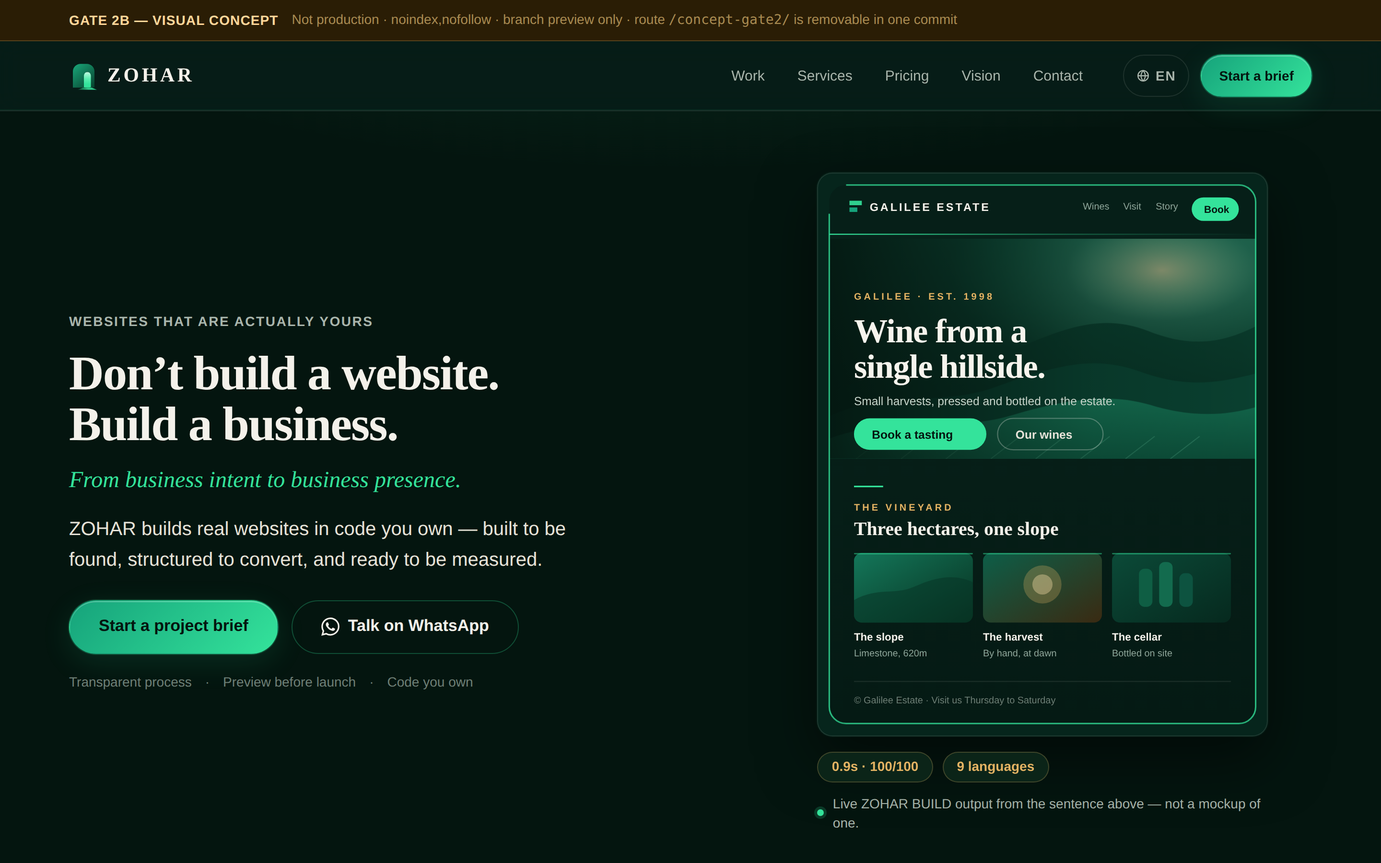
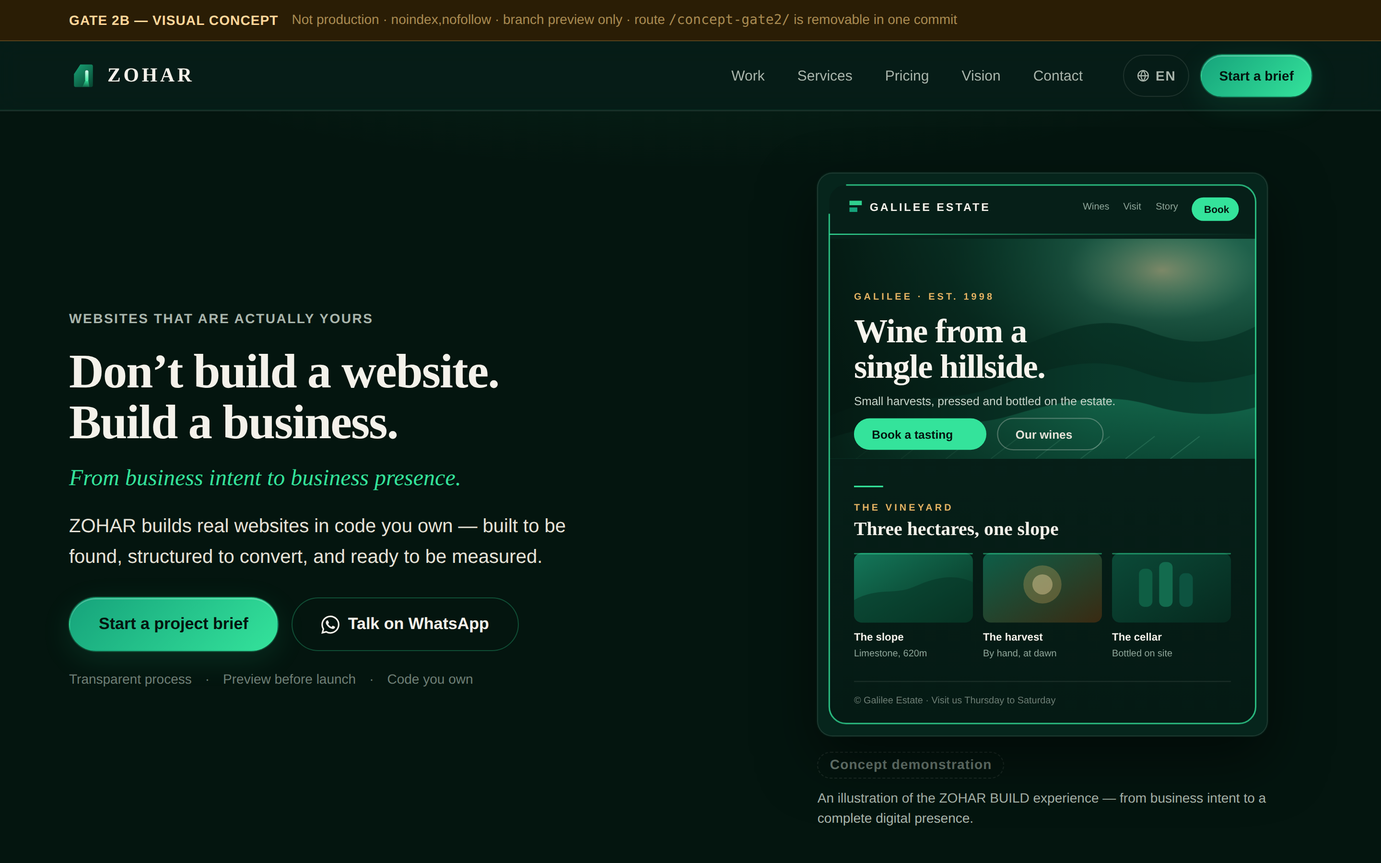
feat(brand): Gate 2C final — Threshold locked, refined to production master; unsupported claims removed
Threshold is selected as the controlling ZOHAR mark. The Cut and The Trace are
retired. No production route is touched: all 12 baseline files under public/
remain byte-identical to e2bad8b. No merge, no production deployment.

1. THRESHOLD — refined into the production master.
Preserved: the off-centre opening, light emerging from within, the crossing from
intent to presence, 16px recognition, and dark/light/mono operation.
Corrected:
  - the symmetric rounded arch is replaced by a chamfered monolith — one steep,
    non-45° chamfer on the leading top corner, 1.5-unit radii elsewhere. The
    tombstone, doorway and arch readings are gone, and the steep angle also
    stops it reading as a folded page corner.
  - the opening is now a capsule incision floating inside the mass that never
    reaches the base. A slot that does not touch the ground cannot be a door.
  - the pooled spill becomes one clean tapered shaft, dropped entirely below
    20px where a dedicated favicon construction widens the incision instead.
  - monochrome is mass plus knockout only: no beam, no gradient, no opacity.
    The chamfer and the off-centre slot carry the identity on silhouette alone.

Production assets committed under public/concept-gate2/brand/, each a real
self-contained SVG: symbol, light-ground symbol, monochrome, favicon and
favicon-mono, horizontal lockup, light lockup, monochrome lockup, ZOHAR AI
secondary lockup, outlined wordmark, 512 app icon and a 1200x630 social card.
[…]

diff --git a/public/concept-gate2/brand/index.html b/public/concept-gate2/brand/index.html
@@ -1,0 +1,118 @@
+<!DOCTYPE html>
+<html lang="en" dir="ltr">
+<head>
+<meta charset="UTF-8">
+<meta name="viewport" content="width=device-width,initial-scale=1,viewport-fit=cover">
+<meta name="robots" content="noindex,nofollow,noarchive,nosnippet">
+<title>ZOHAR — Threshold master mark (Gate 2C final)</title>
+<link rel="icon" href="zohar-favicon.svg" type="image/svg+xml">
+<link rel="preconnect" href="https://fonts.googleapis.com"><link rel="preconnect" href="https://fonts.gstatic.com" crossorigin>
+<link href="https://fonts.googleapis.com/css2?family=Fraunces:ital,opsz,wght@0,9..144,400;0,9..144,600;1,9..144,400&family=Assistant:wght@400;600;700&display=swap" rel="stylesheet">
+<link rel="stylesheet" href="../concept.css">
+<style>
+ .asset{background:linear-gradient(180deg,#08241C,#061E17);border:1px solid var(--z-border);
+   border-radius:14px;padding:22px;display:grid;gap:14px;box-shadow:inset 0 1px 0 rgba(155,250,210,.055)}
+ .stage{border-radius:10px;display:grid;place-items:center;padding:22px;min-height:132px}
+ .on-dark{background:var(--z-canvas);border:1px solid var(--z-border)}
+ .on-light{background:#F4F1EA}
+ .on-mono{background:#0F3A2E;color:#F4F1EA}
+ .fname{font-family:var(--font-mono);font-size:.875rem;color:var(--z-action-400);overflow-wrap:anywhere}
+ .fmeta{font-size:.875rem;color:var(--z-text-mute)}
+ .truesize{display:flex;gap:26px;align-items:flex-end;flex-wrap:wrap}
+ .ts{display:grid;gap:8px;justify-items:center}
+ .ts b{font-size:.875rem;color:var(--z-text-faint);font-weight:600}
+ .px{background:var(--z-canvas);border-radius:3px;display:grid;place-items:center;overflow:hidden}
+ .px.lt{background:#F4F1EA}
+ .zoom{image-rendering:pixelated;border:1px solid var(--z-border);border-radius:6px}
+ .grid-a{display:grid;grid-template-columns:repeat(auto-fill,minmax(290px,1fr));gap:20px}
+</style>
+</head>
+<body>
+<div class="concept-bar"><b>GATE 2C — THRESHOLD MASTER MARK</b><span>Selected direction, refined · production asset set · not production routes</span></div>
+
+<svg width="0" height="0" style="position:absolute" aria-hidden="true"><defs>
+ <mask id="bk"><path d="M9.4 2.6H18.4A1.5 1.5 0 0 1 19.9 4.1V19.9A1.5 1.5 0 0 1 18.4 21.4H5.6A1.5 1.5 0 0 1 4.1 19.9V10.6Z" fill="#fff"/><rect x="13.4" y="7.4" width="2.8" height="9.2" rx="1.4" fill="#000"/></mask>
+ <mask id="bkf"><path d="M9.4 2.6H18.4A1.5 1.5 0 0 1 19.9 4.1V19.9A1.5 1.5 0 0 1 18.4 21.4H5.6A1.5 1.5 0 0 1 4.1 19.9V10.6Z" fill="#fff"/><rect x="13.2" y="6.9" width="3.2" height="10.2" rx="1.6" fill="#000"/></mask>
+</defs>
+<symbol id="s-mono" viewBox="0 0 24 24"><g mask="url(#bk)"><rect width="24" height="24" fill="currentColor"/></g></symbol>
+<symbol id="s-mono-fav" viewBox="0 0 24 24"><g mask="url(#bkf)"><rect width="24" height="24" fill="currentColor"/></g></symbol>
+</svg>
+<main class="appendix" style="border:none">
+  <div class="wide appx-head">
+    <div class="label brass">Final lock</div>
+    <h1 class="d2">Threshold — production master</h1>
+    <p class="lead" style="margin-block-start:16px">The selected construction, refined. The off-centre opening, the light from within and the crossing from intent to presence are preserved. The arch is gone.</p>
+  </div>
+
+  <section class="sec" style="border:none;padding-block-start:14px">
+    <div class="wide">
+      <div class="sec-head" style="max-width:720px"><h2 class="d2" style="font-size:clamp(1.4rem,2.4vw,1.9rem)">What changed</h2></div>
+      <div class="grid-3">
+        <div class="spec"><h4>Outer mass</h4><p>The symmetric rounded arch is replaced by a chamfered monolith: one steep, non-45&deg; chamfer on the leading top corner, 1.5-unit radii elsewhere. It reads as machined, not as a doorway or a headstone — and the steep angle stops it reading as a folded page corner.</p></div>
+        <div class="spec"><h4>The opening</h4><p>Now a capsule incision that floats inside the mass and does not reach the base. A slot that never touches the ground cannot be a door. It is narrower and fully radiused at both ends — a controlled cut, not an entrance.</p></div>
+        <div class="spec"><h4>The light</h4><p>One clean tapered shaft from the lower end of the incision to the base, replacing the soft pooled spill. It is dropped entirely below 20px, where the favicon variant uses a slightly larger incision instead.</p></div>
+        <div class="spec"><h4>Monochrome</h4><p>Mass plus knockout only — no beam, no gradient, no opacity tricks. The chamfer and the off-centre slot carry the identity on silhouette alone.</p></div>
+        <div class="spec"><h4>Small sizes</h4><p>A dedicated favicon construction widens the incision from 2.8 to 3.2 units and lengthens it, so the light still reads at 16px where the production slot would close up.</p></div>
+        <div class="spec"><h4>Wordmark</h4><p>ZOHAR is shipped as outlined vector paths drawn from Fraunces at optical size 96, weight 600. No font needs to be installed, and nothing falls back.</p></div>
+      </div>
+    </div>
+  </section>
+
+  <section class="sec">
+    <div class="wide">
+      <div class="sec-head" style="max-width:720px"><h2 class="d2" style="font-size:clamp(1.4rem,2.4vw,1.9rem)">True-size favicon tests</h2>
+        <p class="lead">Rendered at exactly 16&times;16 and 32&times;32, with a 6&times; pixel-doubled enlargement beside each so the actual rasterisation can be judged.</p></div>
+      <div class="asset">
+        <div class="truesize">
+          <div class="ts"><div class="px" style="width:16px;height:16px"><img src="zohar-favicon.svg" width="16" height="16" alt=""></div><b>16 true</b></div>
+          <div class="ts"><img class="zoom" src="zohar-favicon.svg" width="96" height="96" alt=""><b>16 &rarr; 6&times;</b></div>
+          <div class="ts"><div class="px" style="width:32px;height:32px"><img src="zohar-favicon.svg" width="32" height="32" alt=""></div><b>32 true</b></div>
+          <div class="ts"><img class="zoom" src="zohar-favicon.svg" width="192" height="192" alt=""><b>32 &rarr; 6&times;</b></div>
+          <div class="ts"><div class="px lt" style="width:16px;height:16px;color:#04150F"><svg width="16" height="16"><use href="#s-mono-fav"/></svg></div><b>16 mono light</b></div>
+          <div class="ts"><div class="px" style="width:16px;height:16px;color:#F4F1EA"><svg width="16" height="16"><use href="#s-mono-fav"/></svg></div><b>16 mono dark</b></div>
+        </div>
+        <div class="fname">zohar-favicon.svg &middot; zohar-favicon-mono.svg</div>
+      </div>
+    </div>
+  </section>
+
+  <section class="sec">
+    <div class="wide">
+      <div class="sec-head" style="max-width:720px"><h2 class="d2" style="font-size:clamp(1.4rem,2.4vw,1.9rem)">Production asset set</h2>
+        <p class="lead">Every file below is a real, self-contained SVG committed to the branch. Click a filename to open it.</p></div>
+      <div class="grid-a">
+        <div class="asset"><div class="stage on-dark"><img src="zohar-symbol.svg" width="104" height="104" alt="ZOHAR symbol"></div>
+          <a class="fname" href="zohar-symbol.svg">zohar-symbol.svg</a><div class="fmeta">Master symbol, dark backgrounds</div></div>
+        <div class="asset"><div class="stage on-light"><img src="zohar-symbol-light.svg" width="104" height="104" alt="ZOHAR symbol, light"></div>
+          <a class="fname" href="zohar-symbol-light.svg">zohar-symbol-light.svg</a><div class="fmeta">Deeper mass for warm-white grounds</div></div>
+        <div class="asset"><div class="stage on-mono"><svg width="104" height="104" style="color:#F4F1EA"><use href="#s-mono"/></svg></div>
+          <a class="fname" href="zohar-symbol-mono.svg">zohar-symbol-mono.svg</a><div class="fmeta">currentColor, no gradient, no beam. Embed it inline or with <code>&lt;use&gt;</code> &mdash; an <code>&lt;img&gt;</code> cannot inherit currentColor.</div></div>
+        <div class="asset"><div class="stage on-dark"><img src="zohar-lockup-horizontal.svg" height="54" alt="ZOHAR horizontal lockup"></div>
+          <a class="fname" href="zohar-lockup-horizontal.svg">zohar-lockup-horizontal.svg</a><div class="fmeta">Primary lockup &middot; outlined wordmark</div></div>
+        <div class="asset"><div class="stage on-light"><img src="zohar-lockup-light.svg" height="54" alt="ZOHAR lockup, light"></div>
+          <a class="fname" href="zohar-lockup-light.svg">zohar-lockup-light.svg</a><div class="fmeta">Light-background lockup</div></div>
+        <div class="asset"><div class="stage on-mono"><img src="zohar-lockup-horizontal-mono.svg" height="54" alt="ZOHAR lockup, monochrome" style="filter:invert(1) brightness(2.2)"></div>
+          <a class="fname" href="zohar-lockup-horizontal-mono.svg">zohar-lockup-horizontal-mono.svg</a><div class="fmeta">Single-colour lockup</div></div>
+        <div class="asset"><div class="stage on-dark"><img src="zohar-ai-lockup.svg" height="62" alt="ZOHAR AI lockup"></div>
+          <a class="fname" href="zohar-ai-lockup.svg">zohar-ai-lockup.svg</a><div class="fmeta">Secondary &mdash; company &amp; schema name</div></div>
+        <div class="asset"><div class="stage on-dark"><img src="zohar-wordmark-outlined.svg" height="42" alt="ZOHAR wordmark"></div>
+          <a class="fname" href="zohar-wordmark-outlined.svg">zohar-wordmark-outlined.svg</a><div class="fmeta">Paths only &mdash; no installed font required</div></div>
+        <div class="asset"><div class="stage on-dark"><img src="zohar-appicon-512.svg" width="104" height="104" alt="ZOHAR app icon"></div>
+          <a class="fname" href="zohar-appicon-512.svg">zohar-appicon-512.svg</a><div class="fmeta">App icon, 512 with platform corner radius</div></div>
+        <div class="asset"><div class="stage on-dark" style="padding:14px"><img src="zohar-social-1200x630.svg" style="width:100%;height:auto;border-radius:6px" alt="ZOHAR social card"></div>
+          <a class="fname" href="zohar-social-1200x630.svg">zohar-social-1200x630.svg</a><div class="fmeta">Social / OG card</div></div>
+        <div class="asset"><div class="stage on-dark"><img src="zohar-symbol.svg" width="88" height="88" alt="ZOHAR static state"></div>
+          <a class="fname" href="zohar-symbol.svg">Reduced-motion / static state</a><div class="fmeta">The master symbol is already the resting state &mdash; motion only ever animates into it</div></div>
+        <div class="asset"><div class="stage on-dark"><img src="zohar-favicon.svg" width="88" height="88" alt="ZOHAR favicon"></div>
+          <a class="fname" href="zohar-favicon.svg">zohar-favicon.svg</a><div class="fmeta">Wider incision for small sizes</div></div>
+      </div>
+    </div>
+  </section>
+
+  <div class="wide" style="padding-block:0 70px">
+    <div class="note"><b>Motion principle.</b> The mass is present from the first frame. The incision brightens from its top end downward (340ms), then the shaft reaches the base (220ms). 560ms, once per session. Under <code>prefers-reduced-motion</code> nothing runs and the resting state above is what renders &mdash; it is the same file.
+    <br><br><b>Naming.</b> ZOHAR is the visible brand on the mark and in the lockup. ZOHAR AI is the company and schema name, carried by the secondary lockup only.
+    <br><br><a class="btn btn-ghost btn-sm" href="../">&larr; Back to the homepage concept</a></div>
+  </div>
+</main>
+</body></html>

diff --git a/public/concept-gate2/index.html b/public/concept-gate2/index.html
@@ -10,6 +10,7 @@
 <link rel="preconnect" href="https://fonts.googleapis.com">
 <link rel="preconnect" href="https://fonts.gstatic.com" crossorigin>
 <link href="https://fonts.googleapis.com/css2?family=Fraunces:ital,opsz,wght@0,9..144,400;0,9..144,600;1,9..144,400&family=Assistant:wght@400;600;700&family=Frank+Ruhl+Libre:wght@500;700&display=swap" rel="stylesheet">
+<link rel="icon" href="brand/zohar-favicon.svg" type="image/svg+xml">
 <link rel="stylesheet" href="concept.css">
 </head>
 <body>
@@ -21,7 +22,7 @@
     <linearGradient id="zMassB" x1="3" y1="2" x2="21" y2="22" gradientUnits="userSpaceOnUse"><stop offset="0" stop-color="#1AA97B"/><stop offset="1" stop-color="#073F2C"/></linearGradient>
     <linearGradient id="zSeam" x1="1" y1="17" x2="23" y2="7" gradientUnits="userSpaceOnUse"><stop offset="0" stop-color="#34E39B"/><stop offset=".5" stop-color="#EAFFF6"/><stop offset="1" stop-color="#34E39B"/></linearGradient>
     <linearGradient id="zSlit" x1="13" y1="6.5" x2="13" y2="19" gradientUnits="userSpaceOnUse"><stop offset="0" stop-color="#EAFFF6"/><stop offset=".65" stop-color="#5BEDB0"/><stop offset="1" stop-color="#34E39B"/></linearGradient>
-    <linearGradient id="zSpill" x1="14" y1="19" x2="5" y2="23.5" gradientUnits="userSpaceOnUse"><stop offset="0" stop-color="#34E39B" stop-opacity=".85"/><stop offset="1" stop-color="#34E39B" stop-opacity="0"/></linearGradient>
+    <linearGradient id="zSpill" x1="14.8" y1="16.1" x2="14" y2="21.4" gradientUnits="userSpaceOnUse"><stop offset="0" stop-color="#34E39B" stop-opacity=".9"/><stop offset="1" stop-color="#34E39B" stop-opacity=".12"/></linearGradient>
     <linearGradient id="zTrace" x1="4" y1="20" x2="20" y2="4" gradientUnits="userSpaceOnUse"><stop offset="0" stop-color="#0E6E51"/><stop offset=".45" stop-color="#1FB584"/><stop offset="1" stop-color="#9BFAD2"/></linearGradient>
     <linearGradient id="gLum" x1="0" y1="0" x2="0" y2="1"><stop offset="0" stop-color="#34E39B" stop-opacity="0"/><stop offset=".5" stop-color="#34E39B" stop-opacity=".5"/><stop offset="1" stop-color="#34E39B" stop-opacity="0"/></linearGradient>
     <clipPath id="zUp"><polygon points="-6,-6 30,-6 30,3.64 -6,17.14"/></clipPath>
@@ -45,17 +46,17 @@
     <g clip-path="url(#zLo)"><rect x="3" y="3" width="18" height="18" rx="3.8" fill="currentColor" transform="translate(1.03 -0.39)"/></g>
   </symbol>
 
-  <!-- DIRECTION 2 — THRESHOLD -->
+  <!-- MASTER MARK — THRESHOLD (Gate 2C final: chamfered monolith + capsule incision) -->
+  <mask id="zThrK"><path d="M9.4 2.6H18.4A1.5 1.5 0 0 1 19.9 4.1V19.9A1.5 1.5 0 0 1 18.4 21.4H5.6A1.5 1.5 0 0 1 4.1 19.9V10.6Z" fill="#fff"/><rect x="13.4" y="7.4" width="2.8" height="9.2" rx="1.4" fill="#000"/></mask>
+  <clipPath id="zThrC"><path d="M9.4 2.6H18.4A1.5 1.5 0 0 1 19.9 4.1V19.9A1.5 1.5 0 0 1 18.4 21.4H5.6A1.5 1.5 0 0 1 4.1 19.9V10.6Z"/></clipPath>
   <symbol id="mk-thr" viewBox="0 0 24 24">
-    <path d="M12.4 21.6H18.2L23.2 23.7H7.2Z" fill="url(#zSpill)"/>
-    <g mask="url(#zThr)"><rect width="24" height="24" fill="url(#zMassB)"/></g>
-    <path d="M12.4 12.2C12.4 10.3 13.7 8.9 15.3 8.9C16.9 8.9 18.2 10.3 18.2 12.2V21.6H12.4Z" fill="url(#zSlit)"/>
+    <g mask="url(#zThrK)"><rect width="24" height="24" fill="url(#zMassB)"/></g>
+    <g clip-path="url(#zThrC)"><path d="M13.5 16.1H16.1L16.9 21.4H11.1Z" fill="url(#zSpill)"/></g>
+    <rect x="13.4" y="7.4" width="2.8" height="9.2" rx="1.4" fill="url(#zSlit)"/>
   </symbol>
   <symbol id="mk-thr-mono" viewBox="0 0 24 24">
-    <g mask="url(#zThr)"><rect width="24" height="24" fill="currentColor"/></g>
-    <path d="M12.4 21.6H18.2L22.2 23.4H8.4Z" fill="currentColor" opacity=".35"/>
+    <g mask="url(#zThrK)"><rect width="24" height="24" fill="currentColor"/></g>
   </symbol>
-
   <!-- DIRECTION 3 — THE TRACE -->
   <symbol id="mk-tra" viewBox="0 0 24 24">
     <g mask="url(#zTraceM)"><rect width="24" height="24" fill="url(#zTrace)"/></g>
@@ -231,8 +232,7 @@
   <rect class="m-trace" x="10" y="10" width="380" height="480" rx="15" fill="none" stroke="#34E39B" stroke-width="1.3" opacity=".8"/>
 </svg>
     </div>
-<div class="ev-row"><span class="ev m-chip" style="animation-delay:2.34s">0.9s &middot; 100/100</span><span class="ev m-chip" style="animation-delay:2.5s">9 languages</span></div>
-<p class="demo-cap"><span class="dot"></span>Live ZOHAR BUILD output from the sentence above &mdash; not a mockup of one.</p></div>
+<p class="demo-cap"><span class="demo-label">Concept demonstration</span>An illustration of the ZOHAR BUILD experience &mdash; from business intent to a complete digital presence.</p></div>
   </div>
 </section>
 
@@ -537,15 +537,16 @@
   <section class="sec">
     <div class="wide">
       <div class="sec-head" style="max-width:720px">
-        <h3 class="d2" style="font-size:clamp(1.5rem,2.6vw,2rem)">Logo finalists</h3>
-        <p class="lead">Three new directions. Seed of Light and Light Fold are retired; Aperture is reference only. No winner is proposed &mdash; all three are finished to the same level.</p>
+        <h3 class="d2" style="font-size:clamp(1.5rem,2.6vw,2rem)">The mark</h3>
+        <p class="lead"><b style="color:var(--z-text-hi)">Threshold is selected</b> and refined into the production master: a chamfered monolith with a capsule incision and one tapered shaft of light. The Cut and The Trace are retired.</p>
       </div>
       <div class="grid-3" style="margin-block-end:28px">
-        <div class="spec"><h4>1 &mdash; The Cut</h4><p>A solid block opened by one precise incision, the halves sliding apart so light pours from the gap.</p></div>
-        <div class="spec"><h4>2 &mdash; Threshold</h4><p>An architectural mass with an off-centre opening; light comes through and pools forward.</p></div>
-        <div class="spec"><h4>3 &mdash; The Trace</h4><p>One controlled beam travels a square, gaining weight as it goes, and closes on itself.</p></div>
+        <div class="spec"><h4>Preserved</h4><p>The off-centre opening, the light from within, and the crossing from intent to presence.</p></div>
+        <div class="spec"><h4>Corrected</h4><p>The arch is gone. A chamfered monolith replaces it, the opening is now an incision that never reaches the base, and the spill is one clean shaft.</p></div>
+        <div class="spec"><h4>Shipped</h4><p>Symbol, monochrome, favicon, horizontal and ZOHAR&nbsp;AI lockups, app and social icons, and an outlined wordmark that needs no installed font.</p></div>
       </div>
-      <a class="btn btn-primary" href="logos/">Open the finalist board &rarr;</a>
+      <a class="btn btn-primary" href="brand/">Open the brand page &rarr;</a>
+      <a class="btn btn-ghost" href="logos/" style="margin-inline-start:12px">See how it was decided</a>
     </div>
   </section>
 

diff --git a/public/concept-gate2/he/index.html b/public/concept-gate2/he/index.html
@@ -9,6 +9,7 @@
 <link rel="preconnect" href="https://fonts.googleapis.com">
 <link rel="preconnect" href="https://fonts.gstatic.com" crossorigin>
 <link href="https://fonts.googleapis.com/css2?family=Frank+Ruhl+Libre:wght@500;700&family=Assistant:wght@400;600;700&display=swap" rel="stylesheet">
+<link rel="icon" href="../brand/zohar-favicon.svg" type="image/svg+xml">
 <link rel="stylesheet" href="../concept.css">
 <style>
   /* RTL-specific motion overrides: the intent line reveals right-to-left. */
@@ -24,7 +25,7 @@
     <linearGradient id="zMassB" x1="3" y1="2" x2="21" y2="22" gradientUnits="userSpaceOnUse"><stop offset="0" stop-color="#1AA97B"/><stop offset="1" stop-color="#073F2C"/></linearGradient>
     <linearGradient id="zSeam" x1="1" y1="17" x2="23" y2="7" gradientUnits="userSpaceOnUse"><stop offset="0" stop-color="#34E39B"/><stop offset=".5" stop-color="#EAFFF6"/><stop offset="1" stop-color="#34E39B"/></linearGradient>
     <linearGradient id="zSlit" x1="13" y1="6.5" x2="13" y2="19" gradientUnits="userSpaceOnUse"><stop offset="0" stop-color="#EAFFF6"/><stop offset=".65" stop-color="#5BEDB0"/><stop offset="1" stop-color="#34E39B"/></linearGradient>
-    <linearGradient id="zSpill" x1="14" y1="19" x2="5" y2="23.5" gradientUnits="userSpaceOnUse"><stop offset="0" stop-color="#34E39B" stop-opacity=".85"/><stop offset="1" stop-color="#34E39B" stop-opacity="0"/></linearGradient>
+    <linearGradient id="zSpill" x1="14.8" y1="16.1" x2="14" y2="21.4" gradientUnits="userSpaceOnUse"><stop offset="0" stop-color="#34E39B" stop-opacity=".9"/><stop offset="1" stop-color="#34E39B" stop-opacity=".12"/></linearGradient>
     <linearGradient id="zTrace" x1="4" y1="20" x2="20" y2="4" gradientUnits="userSpaceOnUse"><stop offset="0" stop-color="#0E6E51"/><stop offset=".45" stop-color="#1FB584"/><stop offset="1" stop-color="#9BFAD2"/></linearGradient>
     <linearGradient id="gLum" x1="0" y1="0" x2="0" y2="1"><stop offset="0" stop-color="#34E39B" stop-opacity="0"/><stop offset=".5" stop-color="#34E39B" stop-opacity=".5"/><stop offset="1" stop-color="#34E39B" stop-opacity="0"/></linearGradient>
     <clipPath id="zUp"><polygon points="-6,-6 30,-6 30,3.64 -6,17.14"/></clipPath>
@@ -48,17 +49,17 @@
     <g clip-path="url(#zLo)"><rect x="3" y="3" width="18" height="18" rx="3.8" fill="currentColor" transform="translate(1.03 -0.39)"/></g>
   </symbol>
 
-  <!-- DIRECTION 2 — THRESHOLD -->
+  <!-- MASTER MARK — THRESHOLD (Gate 2C final: chamfered monolith + capsule incision) -->
+  <mask id="zThrK"><path d="M9.4 2.6H18.4A1.5 1.5 0 0 1 19.9 4.1V19.9A1.5 1.5 0 0 1 18.4 21.4H5.6A1.5 1.5 0 0 1 4.1 19.9V10.6Z" fill="#fff"/><rect x="13.4" y="7.4" width="2.8" height="9.2" rx="1.4" fill="#000"/></mask>
+  <clipPath id="zThrC"><path d="M9.4 2.6H18.4A1.5 1.5 0 0 1 19.9 4.1V19.9A1.5 1.5 0 0 1 18.4 21.4H5.6A1.5 1.5 0 0 1 4.1 19.9V10.6Z"/></clipPath>
   <symbol id="mk-thr" viewBox="0 0 24 24">
-    <path d="M12.4 21.6H18.2L23.2 23.7H7.2Z" fill="url(#zSpill)"/>
-    <g mask="url(#zThr)"><rect width="24" height="24" fill="url(#zMassB)"/></g>
-    <path d="M12.4 12.2C12.4 10.3 13.7 8.9 15.3 8.9C16.9 8.9 18.2 10.3 18.2 12.2V21.6H12.4Z" fill="url(#zSlit)"/>
+    <g mask="url(#zThrK)"><rect width="24" height="24" fill="url(#zMassB)"/></g>
+    <g clip-path="url(#zThrC)"><path d="M13.5 16.1H16.1L16.9 21.4H11.1Z" fill="url(#zSpill)"/></g>
+    <rect x="13.4" y="7.4" width="2.8" height="9.2" rx="1.4" fill="url(#zSlit)"/>
   </symbol>
   <symbol id="mk-thr-mono" viewBox="0 0 24 24">
-    <g mask="url(#zThr)"><rect width="24" height="24" fill="currentColor"/></g>
-    <path d="M12.4 21.6H18.2L22.2 23.4H8.4Z" fill="currentColor" opacity=".35"/>
+    <g mask="url(#zThrK)"><rect width="24" height="24" fill="currentColor"/></g>
   </symbol>
-
   <!-- DIRECTION 3 — THE TRACE -->
   <symbol id="mk-tra" viewBox="0 0 24 24">
     <g mask="url(#zTraceM)"><rect width="24" height="24" fill="url(#zTrace)"/></g>
@@ -228,8 +229,7 @@
   <rect class="m-trace" x="10" y="10" width="380" height="480" rx="15" fill="none" stroke="#34E39B" stroke-width="1.3" opacity=".8"/>
 </svg>
     </div>
-<div class="ev-row"><span class="ev m-chip" style="animation-delay:2.34s">0.9s &middot; 100/100</span><span class="ev m-chip" style="animation-delay:2.5s">9 שפות</span></div>
-<p class="demo-cap"><span class="dot"></span>תוצר חי של ZOHAR BUILD מהמשפט שלמעלה — לא הדמיה שלו.</p></div>
+<p class="demo-cap"><span class="demo-label">המחשת קונספט</span>המחשה לחוויית ZOHAR BUILD — מכוונה עסקית לנוכחות דיגיטלית שלמה.</p></div>
   </div>
 </section>
 

diff --git a/public/concept-gate2/logos/index.html b/public/concept-gate2/logos/index.html
@@ -84,15 +84,16 @@
   <symbol id="ic-globe" viewBox="0 0 16 16"><circle cx="8" cy="8" r="6.2" fill="none" stroke="currentColor" stroke-width="1.3"/><path d="M1.8 8h12.4M8 1.8c1.7 2 2.5 4 2.5 6.2S9.7 12.2 8 14.2C6.3 12.2 5.5 10.2 5.5 8s.8-4.2 2.5-6.2z" fill="none" stroke="currentColor" stroke-width="1.3"/></symbol>
   <symbol id="ic-arr" viewBox="0 0 16 16"><path d="M3 8h10M9 4l4 4-4 4" fill="none" stroke="currentColor" stroke-width="1.6" stroke-linecap="round" stroke-linejoin="round"/></symbol>
 </svg>
-<div class="concept-bar"><b>GATE 2C — LOGO FINALISTS</b><span>Three new directions · equal fidelity · no winner selected · not production</span></div>
+<div class="concept-bar"><b>GATE 2C — DECIDED</b><span>Threshold selected · The Cut and The Trace retired · superseded by the brand page</span></div>
 
 <main class="appendix" style="border:none">
   <div class="wide appx-head">
     <div class="label brass">New exploration</div>
-    <h1 class="d2">Three finalists</h1>
+    <h1 class="d2">Three finalists &mdash; decided</h1>
     <p class="lead" style="margin-block-start:16px">Seed of Light is retired. Light Fold is retired. Aperture is kept only as a reference and is not carried forward. These three are new work, built against the brief rather than refined out of it.</p>
-    <div class="note" style="margin-block-start:26px">
-      <b>No recommendation.</b> All three are presented at the same level of finish, deliberately. The choice is yours. The mark currently placed in the concept navigation is <b style="color:var(--z-text-hi)">Threshold</b>, used as a placeholder so the page is not headless &mdash; that placement is not a selection.
+    <div class="note" style="margin-block-start:26px;border-color:var(--z-border-strong);background:rgba(52,227,155,.07)">
+      <b style="color:var(--z-action-400)">Decision: Threshold is the controlling ZOHAR mark.</b> The Cut and The Trace are retired and are kept on this page only as the record of how the decision was reached. The refined production master and its full asset set live on the <a href="../brand/" style="color:var(--z-action-400)">brand page</a>.
+      <br><br><b>Superseded.</b> All three are presented at the same level of finish, deliberately. The choice is yours. The mark currently placed in the concept navigation is <b style="color:var(--z-text-hi)">Threshold</b>, used as a placeholder so the page is not headless &mdash; that placement is not a selection.
       <br><br><b>Ruled out by construction:</b> leaves, sprouts, flowers, stairs, shelves, stacked bars, camera apertures, letter&nbsp;Z forms, sparkles, stars, suns, brains, chat bubbles, circuitry, infinity loops and religious iconography. Each mark is one sentence to explain.
     </div>
   </div>

diff --git a/public/concept-gate2/review/index.html b/public/concept-gate2/review/index.html
@@ -21,7 +21,7 @@
 </style>
 </head>
 <body>
-<div class="concept-bar"><b>GATE 2C — FULL-RESOLUTION REVIEW CAPTURES</b><span>Click any tile to open the original PNG at full size</span></div>
+<div class="concept-bar"><b>GATE 2C FINAL — FULL-RESOLUTION REVIEW CAPTURES</b><span>Click any tile to open the original PNG at full size</span></div>
 <main class="appendix" style="border:none">
   <div class="wide appx-head">
     <div class="label brass">Premium visual identity pass</div>
@@ -31,6 +31,15 @@
   <section class="sec" style="border:none;padding-block-start:10px">
     <div class="wide">
       <div class="grid">
+      <a class="shot" href="brand-asset-board.png">
+        <img src="brand-asset-board.png" alt="Threshold master mark — full production asset board" loading="lazy">
+        <div class="shot-b"><div class="shot-t">Threshold master mark — full production asset board</div><div class="shot-d">1440 wide @2×, full page · 1139 KB · PNG</div></div>
+      </a>
+      <a class="shot" href="favicon-16-32-tests.png">
+        <img src="favicon-16-32-tests.png" alt="Favicon tests — true 16px and 32px with 6× enlargement" loading="lazy">
+        <div class="shot-b"><div class="shot-t">Favicon tests — true 16px and 32px with 6× enlargement</div><div class="shot-d">element @3× · 204 KB · PNG</div></div>
+      </a>
+
       <a class="shot" href="en-desktop-1440x900.png">
         <img src="en-desktop-1440x900.png" alt="English desktop hero" loading="lazy">
         <div class="shot-b"><div class="shot-t">English desktop hero</div><div class="shot-d">1440×900 @2× → 2880×1800 · 627 KB · PNG</div></div>

diff --git a/public/concept-gate2/concept.css b/public/concept-gate2/concept.css
@@ -417,10 +417,11 @@ a{color:inherit}
 
 /* 2 · the demonstration frame reads as evidence, not decoration */
 .demo-wrap{position:relative}
-.demo-cap{display:flex;align-items:center;gap:9px;margin-block-start:12px;font-size:.875rem;
-  color:var(--z-text-mute);line-height:1.45}
-.demo-cap .dot{inline-size:7px;block-size:7px;border-radius:50%;background:var(--z-action-400);
-  box-shadow:0 0 0 3px rgba(52,227,155,.18);flex-shrink:0}
+.demo-cap{display:flex;align-items:baseline;gap:10px;flex-wrap:wrap;margin-block-start:16px;
+  font-size:.875rem;color:var(--z-text-mute);line-height:1.5}
+.demo-label{display:inline-flex;align-items:center;height:28px;padding:0 12px;border-radius:999px;
+  font-size:.875rem;font-weight:700;letter-spacing:.04em;color:var(--z-text-faint);
+  border:1px dashed var(--z-border);flex-shrink:0}
 
 /* 3 · material depth — layered emerald, not more gradients everywhere */
 .card,.panel,.spec,.logo-block,.brief,.rm-step{
